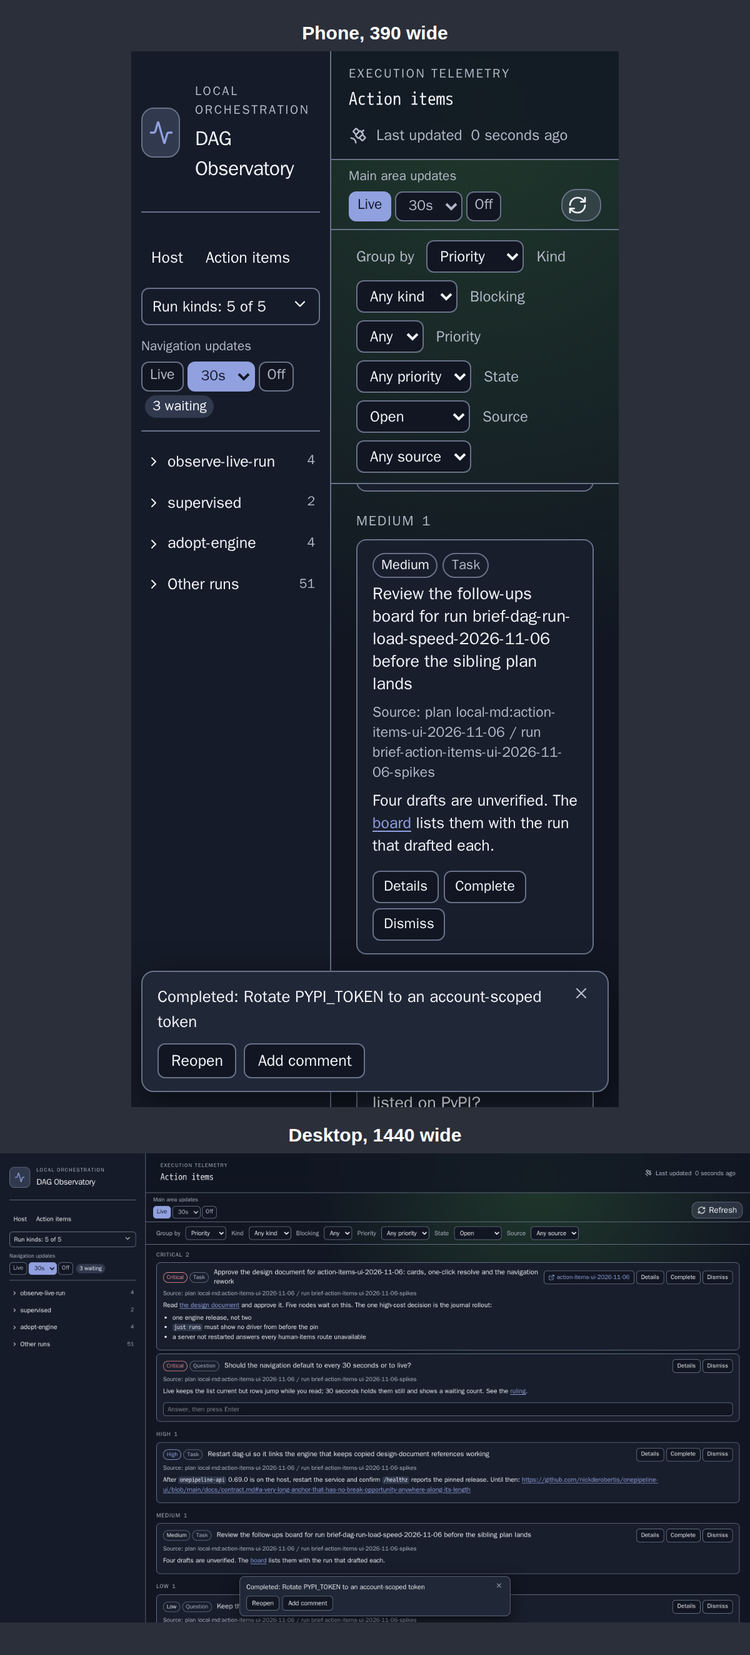
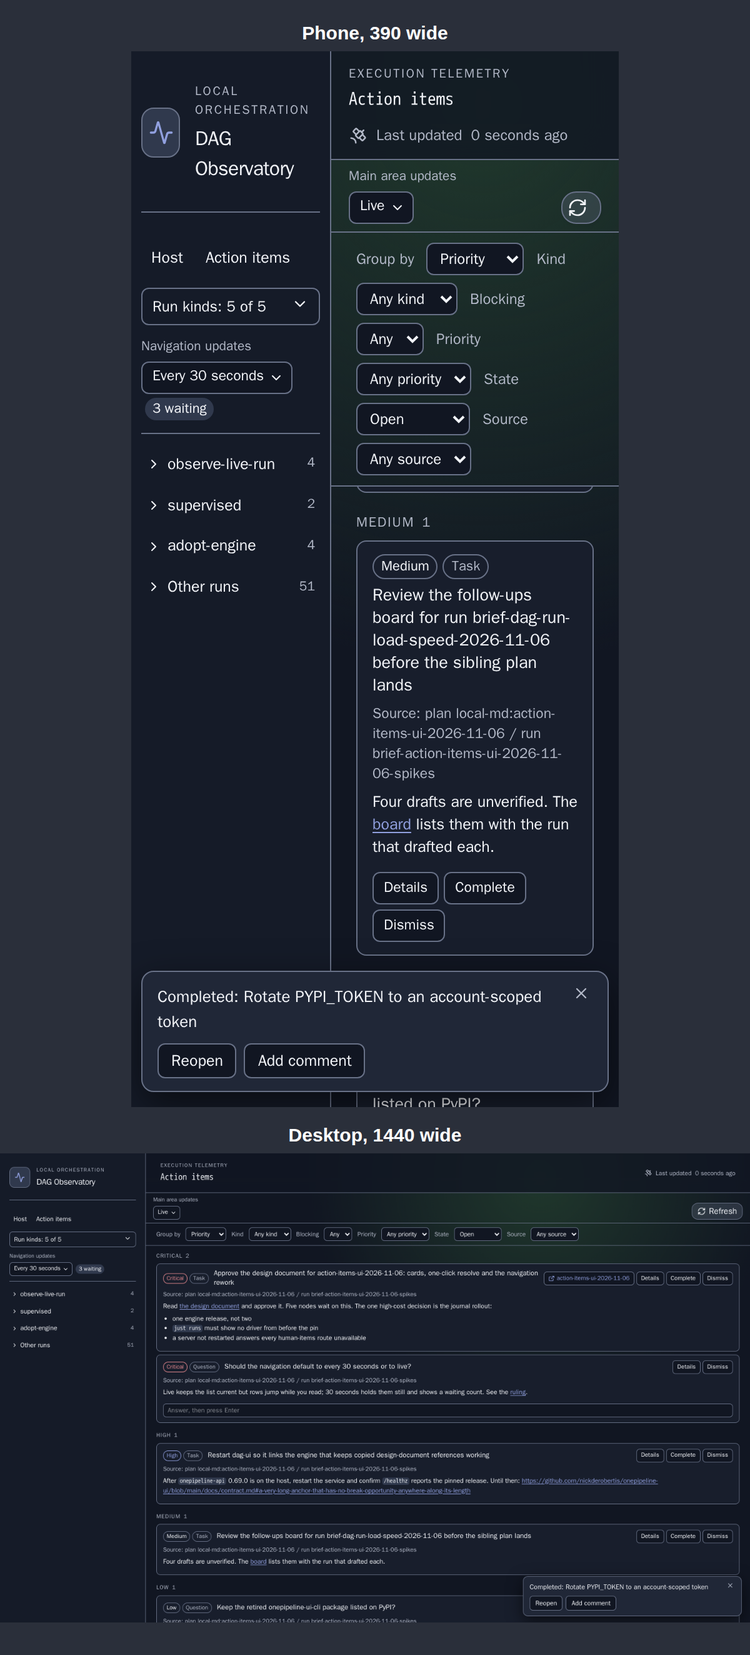
chore(spike): refresh the visual spike's report snapshot after the user's review

diff --git a/docs/spikes/action-items-ui-2026-11-06-spike-visual/report.md b/docs/spikes/action-items-ui-2026-11-06-spike-visual/report.md
@@ -2,11 +2,7 @@
 title: 'Spike spike-visual report: action items and navigation mock'
 project: action-items-ui-2026-11-06
 metadata:
-  onetaskgraph.template:
-    template: onepipeline:spike-report
-    digest: sha256:f9de4090ff78d96a56b1f1d831f2d5d77c9c15e335379fefcb78a96b03caa354
-    body_digest: sha256:142278aedd45d64e69173796d2f77d4170bffa1c2865af7c15eb27e6d08a6548
-    answers_digest: sha256:7c4c5c1d0a08d2e0bf624b81a3762dcd013b8bacbc1d031bdefd000ffd317e1b
+  "onetaskgraph.template": {"template":"onepipeline:spike-report","digest":"sha256:f9de4090ff78d96a56b1f1d831f2d5d77c9c15e335379fefcb78a96b03caa354","body_digest":"sha256:5138f1011ad198b8b79d9ad11e03f2011f6168b8bcb622e7e0a26f3c7cefae9f","answers_digest":"sha256:82bf78f093c232a17baf2375a6bde48b8fc0d0d54123b414d265fcd93afcc5d4"}
 ---
 # Spike `spike-visual`
 
@@ -21,13 +17,13 @@ metadata:
 
 A throwaway mock inside the real `apps/dag-ui`, driven through the repository's capture path (`just dag-ui-screens`) in its pinned browser container. Each image stacks the phone shot (390 wide) over the desktop shot (1440 wide), because a report entry names one image.
 
-**What is mocked.** The Action items list is six invented items served by a browser-side stub, on both the base page and the mock. Complete and Dismiss write nothing: the card leaves locally and a toast appears, with no timer. The failed write is hard-coded to one item, and its refusal text is written to resemble the engine's. The waiting counts are hard-coded and nothing buffers events. Grouping, remembering a choice and animated reordering are not exercised. Markdown is `react-markdown` standing in for `@onetaskgraph/ui`.
+**What is mocked.** The Action items list is six invented items served by a browser-side stub, on both the base page and the mock. Complete and Dismiss write nothing: the card leaves locally and a toast appears, with no timer. The failed write is hard-coded to one item, and its refusal text is written to resemble the engine's. The waiting counts are hard-coded and nothing buffers events. Each update setting's dropdown is a disclosure rather than a native select, because a native select's open list cannot appear in a screenshot; the build can use either. Grouping, remembering a choice and animated reordering are not exercised. Markdown is `react-markdown` standing in for `@onetaskgraph/ui`.
 
 **The befores.** Changes 6 and 7 use the deployed gallery's baseline images, `11-project-list` and `01-run-list-overall`. Each run of the script requires the digests in the deployed `captures.json`, the digests in `shots/baseline/x86_64.json` and the downloaded image's own SHA-256 to agree at both widths, and they did for all of these. On a mismatch the script renders that before on the unchanged base, source and fixture both; that fallback was not needed here. On the base these two surfaces render the same picture, so changes 6 and 7 show the same before. Changes 1 and 8 have no gallery surface, so they were captured with `apps/dag-ui/src` restored from base commit 7acfdc8.
 
 **The fixture.** The mock's fixture gains kinds on six runs and a long markdown task on `dashboard`. The task appears in both pictures of change 8. The kinds appear only in the afters of changes 6 and 7, because the baseline's fixture has none.
 
-**Checks.** This spike owes none, and nothing here lands. No lint and none of the repository's test suites ran, and the mock's new surfaces are not expected to pass those tests. These did run: `npx tsc -p apps/dag-ui/tsconfig.json --noEmit` twice while building the mock's first commit, the first run reporting one error in `HumanItemsPage.tsx`, fixed, and the second none, and not again after the later commits; `just spike-visual-screens`, whose Playwright specs only take pictures, and whose last run, on the tree committed as 0eef39e, exited 0; `playwright test --list`, showing the fallback's two surfaces resolve at both widths without running them; `cmp` of the stored images against the capture's files, before this wording changed; and `onepipeline template check spike-report --item` on this report after each of its last two replacements, reporting ok.
+**Checks.** This spike owes none, and nothing here lands. No lint and none of the repository's test suites ran, and the mock's new surfaces are not expected to pass those tests. These did run: `npx tsc -p apps/dag-ui/tsconfig.json --noEmit` twice while building the mock's first commit, the first run reporting one error in `HumanItemsPage.tsx`, fixed, and the second none, and not again after the later commits; `just spike-visual-screens`, whose Playwright specs only take pictures: its run on 9a65520 exited 1 because `aria-disabled` on the greyed Reopen's wrapper also disabled the question mark inside it, which was fixed, and its last run, on the tree committed as d30edb7, exited 0; `playwright test --list`, showing the fallback's two surfaces resolve at both widths without running them; `cmp` of the images against the last capture's files: all four befores byte-identical to the images stored before that run, and the eight afters changed; and `onepipeline template check spike-report --item` on this report after each of its last three replacements, reporting ok.
 
 
 ## Candidate budgets
@@ -41,13 +37,15 @@ This spike measured no candidate budget itself.
 - **The run's counts have no home in the one-line row.** The mock moves `active · 1 running · 3 done` into a hover title, which a phone cannot reach. The navigation task does not say whether the counts survive, so the plan should decide; the state dot alone says much less.
 - **The pinned controls leave little room for the list on a phone.** The title, update setting and five filters end about 345 px down, and with a toast showing only about 390 px of list remains (shots 2 to 4). The base already stacks the filters this way, and the update setting adds a row. Recommend folding the filters behind one disclosure at phone width, which no task states yet.
 - **On a phone the toast can cover the card it is about.** In the failed write shot it hides the card's own reason line and actions. The failure journey should bring the card into view above the toast, or the reason should appear in only one of the two places.
+- **On a wide screen the toast can cover the actions of a card under it.** Anchored bottom right, it sits over the right end of the list, where a card's Details, Complete and Dismiss are: in the Dismiss and Complete shots it hides the lowest visible card's actions. Moving it does not remove the overlap, so the build should keep room below the list or accept it for the toast's 15 seconds.
 - **The update settings need a stated place.** The navigation task does not say where the controls go. The mock puts one in the navigation and adds a strip under the top bar for the other, which costs a row on every view: about 57 px on a phone, more when the waiting count wraps. The strip does solve an existing problem: at 390 the base run view has Refresh pushed off the top bar's right edge, so it is not visible in the before. On desktop the strip could merge into the top bar.
-- **Phone touch targets are small.** In the mock the update buttons are 24 px tall and card actions 26 px. The goals require usability on a phone, so the build should set a minimum size.
+- **The navigation's waiting count takes its own line on a phone.** `Every 30 seconds` nearly fills the 160 px column, so the count wraps under the dropdown and adds a row to the navigation. A drawer or a shorter label such as `30s` would resolve it.
+- **Phone touch targets are small.** In the mock the update dropdowns and card actions are 26 px tall. The greyed Reopen's question mark is drawn at 11 px as asked, with an invisible hit area of about 33 px around it that overlaps the left edge of Add comment. The goals require usability on a phone, so the build should set a minimum size and a gap that keeps the two targets apart.
 - **The six-card target in the page's stylesheet does not hold under realistic content.** `styles.css` cites `docs/human-items.md` for six complete cards at 1440×900 with 80 to 160 character bodies. The mock shows four complete cards and part of a fifth, even with badges, title and actions on one row, because bodies with lists are taller. The target should be restated or the desktop clamp tightened.
 - **The Priority badge repeats its group heading.** Under a heading reading Critical, every card also carries a Critical badge. Recommend omitting the badge for whichever field the list is grouped by.
 - **Bold did not render in these captures.** `**text**` and headings show at regular weight even with an explicit `font-weight: 700`, so the mock separates headings by size alone. The cause was not investigated. It may be the capture's font and not a phone or desktop browser, but the build should check it, because bold is part of rendered markdown.
 - **`remark-gfm` is not in this repository's `bun.lock`.** `react-markdown` alone gives no GFM, so bare URLs do not link and tables do not render; the mock's long URLs had to use `<...>`. `TaskMarkdown` promises GFM, so `@onetaskgraph/ui` has to bring it.
-- **A popup kind dropdown would be clipped in the navigation.** `.run-nav` sets `overflow: hidden`, and at phone width the column is 160 px. The mock opens the list in flow, pushing the rows down; the build should either keep that or render the menu in a portal.
+- **A popup dropdown would be clipped in the navigation.** `.run-nav` sets `overflow: hidden`, and at phone width the column is 160 px. The mock opens the kind list and the navigation's update list in flow, pushing the rows down; the build should either keep that or render the menu in a portal.
 - **On a phone the card clamp can hide what matters.** Four lines of body cut off the bullet list on the first card, so its three rollout points are reachable only through Details. Desktop shows them. This may be acceptable, but it is a real loss for an approval read on a phone.
 
 ## Visual changes
@@ -66,25 +64,25 @@ Cards gain group headings with counts, rendered markdown with formatted links, a
 
 ### The toast after Dismiss
 
-Dismiss acts at once with no dialog. The card leaves and a toast offers Restore and Add reason.
+Dismiss acts at once with no dialog. The card leaves and a toast offers Restore and Add reason. On a wide screen it sits at the bottom right; on a phone it stays across the bottom.
 
 ![The toast after Dismiss](./a2-dismiss-toast.png)
 
 ### The toast after Complete
 
-Complete acts at once. The card leaves and a toast offers Reopen and Add comment.
+Complete acts at once. The card leaves and a toast offers Reopen and Add comment. On a wide screen it sits at the bottom right; on a phone it stays across the bottom.
 
 ![The toast after Complete](./a3-complete-toast.png)
 
 ### Reopen greyed, with its reason open
 
-Where an item cannot be reopened, Reopen is greyed with a question mark beside it. Pressing the question mark opens the reason, which also works on a phone; on desktop hovering shows it too. Shown after completing an item whose script declares no undo.
+Where an item cannot be reopened, Reopen is greyed with a small question mark on its text, as a superscript. Pressing the question mark opens the reason, which also works on a phone; on desktop hovering shows it too. Shown after completing an item whose script declares no undo.
 
 ![Reopen greyed, with its reason open](./a4-reopen-greyed.png)
 
 ### A failed write
 
-The card stays in its place with the reason on it, and the toast names what did not happen and why. On a phone the toast covers the bottom of the card, as the findings say. The refusal text is mock wording.
+The card stays in its place with the reason on it, and the toast names what did not happen and why. On a phone the toast covers the bottom of the card, as the findings say; on a wide screen it sits at the bottom right, clear of this card. The refusal text is mock wording.
 
 ![A failed write](./a5-failed-write.png)
 
@@ -102,7 +100,7 @@ Projects become compact rows with counts, collapsed except the selected run's pr
 
 ### Two update settings
 
-The navigation and the main area each offer Live, an interval and Off, with a count of waiting changes. Shown at the defaults for the navigation (every 30 seconds) and with the main area switched to Off to show its count; the main area defaults to Live. Refresh sits beside the main area's setting, where a phone can reach it. The before is the deployed baseline, whose fixture has no kind tags.
+The navigation and the main area each have one dropdown holding Live, Every 10 seconds, Every 30 seconds, Every minute, Every 5 minutes and Off, with a count of waiting changes beside it. Both are shown open so the picture shows what each holds; a real one closes when you look away. The navigation is at its default (every 30 seconds) and the main area is switched to Off to show its count; the main area defaults to Live, as the other shots show. Refresh sits beside the main area's setting, where a phone can reach it. The before is the deployed baseline, whose fixture has no kind tags.
 
 **Before**
 
@@ -134,26 +132,28 @@ findings:
 - '**The run''s counts have no home in the one-line row.** The mock moves `active · 1 running · 3 done` into a hover title, which a phone cannot reach. The navigation task does not say whether the counts survive, so the plan should decide; the state dot alone says much less.'
 - '**The pinned controls leave little room for the list on a phone.** The title, update setting and five filters end about 345 px down, and with a toast showing only about 390 px of list remains (shots 2 to 4). The base already stacks the filters this way, and the update setting adds a row. Recommend folding the filters behind one disclosure at phone width, which no task states yet.'
 - '**On a phone the toast can cover the card it is about.** In the failed write shot it hides the card''s own reason line and actions. The failure journey should bring the card into view above the toast, or the reason should appear in only one of the two places.'
+- '**On a wide screen the toast can cover the actions of a card under it.** Anchored bottom right, it sits over the right end of the list, where a card''s Details, Complete and Dismiss are: in the Dismiss and Complete shots it hides the lowest visible card''s actions. Moving it does not remove the overlap, so the build should keep room below the list or accept it for the toast''s 15 seconds.'
 - '**The update settings need a stated place.** The navigation task does not say where the controls go. The mock puts one in the navigation and adds a strip under the top bar for the other, which costs a row on every view: about 57 px on a phone, more when the waiting count wraps. The strip does solve an existing problem: at 390 the base run view has Refresh pushed off the top bar''s right edge, so it is not visible in the before. On desktop the strip could merge into the top bar.'
-- '**Phone touch targets are small.** In the mock the update buttons are 24 px tall and card actions 26 px. The goals require usability on a phone, so the build should set a minimum size.'
+- '**The navigation''s waiting count takes its own line on a phone.** `Every 30 seconds` nearly fills the 160 px column, so the count wraps under the dropdown and adds a row to the navigation. A drawer or a shorter label such as `30s` would resolve it.'
+- '**Phone touch targets are small.** In the mock the update dropdowns and card actions are 26 px tall. The greyed Reopen''s question mark is drawn at 11 px as asked, with an invisible hit area of about 33 px around it that overlaps the left edge of Add comment. The goals require usability on a phone, so the build should set a minimum size and a gap that keeps the two targets apart.'
 - '**The six-card target in the page''s stylesheet does not hold under realistic content.** `styles.css` cites `docs/human-items.md` for six complete cards at 1440×900 with 80 to 160 character bodies. The mock shows four complete cards and part of a fifth, even with badges, title and actions on one row, because bodies with lists are taller. The target should be restated or the desktop clamp tightened.'
 - '**The Priority badge repeats its group heading.** Under a heading reading Critical, every card also carries a Critical badge. Recommend omitting the badge for whichever field the list is grouped by.'
 - '**Bold did not render in these captures.** `**text**` and headings show at regular weight even with an explicit `font-weight: 700`, so the mock separates headings by size alone. The cause was not investigated. It may be the capture''s font and not a phone or desktop browser, but the build should check it, because bold is part of rendered markdown.'
 - '**`remark-gfm` is not in this repository''s `bun.lock`.** `react-markdown` alone gives no GFM, so bare URLs do not link and tables do not render; the mock''s long URLs had to use `<...>`. `TaskMarkdown` promises GFM, so `@onetaskgraph/ui` has to bring it.'
-- '**A popup kind dropdown would be clipped in the navigation.** `.run-nav` sets `overflow: hidden`, and at phone width the column is 160 px. The mock opens the list in flow, pushing the rows down; the build should either keep that or render the menu in a portal.'
+- '**A popup dropdown would be clipped in the navigation.** `.run-nav` sets `overflow: hidden`, and at phone width the column is 160 px. The mock opens the kind list and the navigation''s update list in flow, pushing the rows down; the build should either keep that or render the menu in a portal.'
 - '**On a phone the card clamp can hide what matters.** Four lines of body cut off the bullet list on the first card, so its three rollout points are reachable only through Details. Desktop shows them. This may be acceptable, but it is a real loss for an approval read on a phone.'
 harness: |
   `just spike-visual-screens` on that branch re-captures every picture, a few minutes once built, and needs Docker. It writes the shots to `shots/local/spike-visual/{before,after}` and the images this report names to `shots/local/spike-visual/report`. `scripts/spike-visual-capture.sh` is the driver and `apps/dag-ui-e2e/gallery.screens.spec.ts` holds the `SPIKE-before` and `SPIKE-after` surfaces.
 method: |
   A throwaway mock inside the real `apps/dag-ui`, driven through the repository's capture path (`just dag-ui-screens`) in its pinned browser container. Each image stacks the phone shot (390 wide) over the desktop shot (1440 wide), because a report entry names one image.
 
-  **What is mocked.** The Action items list is six invented items served by a browser-side stub, on both the base page and the mock. Complete and Dismiss write nothing: the card leaves locally and a toast appears, with no timer. The failed write is hard-coded to one item, and its refusal text is written to resemble the engine's. The waiting counts are hard-coded and nothing buffers events. Grouping, remembering a choice and animated reordering are not exercised. Markdown is `react-markdown` standing in for `@onetaskgraph/ui`.
+  **What is mocked.** The Action items list is six invented items served by a browser-side stub, on both the base page and the mock. Complete and Dismiss write nothing: the card leaves locally and a toast appears, with no timer. The failed write is hard-coded to one item, and its refusal text is written to resemble the engine's. The waiting counts are hard-coded and nothing buffers events. Each update setting's dropdown is a disclosure rather than a native select, because a native select's open list cannot appear in a screenshot; the build can use either. Grouping, remembering a choice and animated reordering are not exercised. Markdown is `react-markdown` standing in for `@onetaskgraph/ui`.
 
   **The befores.** Changes 6 and 7 use the deployed gallery's baseline images, `11-project-list` and `01-run-list-overall`. Each run of the script requires the digests in the deployed `captures.json`, the digests in `shots/baseline/x86_64.json` and the downloaded image's own SHA-256 to agree at both widths, and they did for all of these. On a mismatch the script renders that before on the unchanged base, source and fixture both; that fallback was not needed here. On the base these two surfaces render the same picture, so changes 6 and 7 show the same before. Changes 1 and 8 have no gallery surface, so they were captured with `apps/dag-ui/src` restored from base commit 7acfdc8.
 
   **The fixture.** The mock's fixture gains kinds on six runs and a long markdown task on `dashboard`. The task appears in both pictures of change 8. The kinds appear only in the afters of changes 6 and 7, because the baseline's fixture has none.
 
-  **Checks.** This spike owes none, and nothing here lands. No lint and none of the repository's test suites ran, and the mock's new surfaces are not expected to pass those tests. These did run: `npx tsc -p apps/dag-ui/tsconfig.json --noEmit` twice while building the mock's first commit, the first run reporting one error in `HumanItemsPage.tsx`, fixed, and the second none, and not again after the later commits; `just spike-visual-screens`, whose Playwright specs only take pictures, and whose last run, on the tree committed as 0eef39e, exited 0; `playwright test --list`, showing the fallback's two surfaces resolve at both widths without running them; `cmp` of the stored images against the capture's files, before this wording changed; and `onepipeline template check spike-report --item` on this report after each of its last two replacements, reporting ok.
+  **Checks.** This spike owes none, and nothing here lands. No lint and none of the repository's test suites ran, and the mock's new surfaces are not expected to pass those tests. These did run: `npx tsc -p apps/dag-ui/tsconfig.json --noEmit` twice while building the mock's first commit, the first run reporting one error in `HumanItemsPage.tsx`, fixed, and the second none, and not again after the later commits; `just spike-visual-screens`, whose Playwright specs only take pictures: its run on 9a65520 exited 1 because `aria-disabled` on the greyed Reopen's wrapper also disabled the question mark inside it, which was fixed, and its last run, on the tree committed as d30edb7, exited 0; `playwright test --list`, showing the fallback's two surfaces resolve at both widths without running them; `cmp` of the images against the last capture's files: all four befores byte-identical to the images stored before that run, and the eight afters changed; and `onepipeline template check spike-report --item` on this report after each of its last three replacements, reporting ok.
 spike: spike-visual
 visual_changes:
 - name: Action items cards, grouped by Priority
@@ -161,23 +161,23 @@ visual_changes:
   before: b1-cards.png
   after: a1-cards.png
 - name: The toast after Dismiss
-  description: Dismiss acts at once with no dialog. The card leaves and a toast offers Restore and Add reason.
+  description: Dismiss acts at once with no dialog. The card leaves and a toast offers Restore and Add reason. On a wide screen it sits at the bottom right; on a phone it stays across the bottom.
   after: a2-dismiss-toast.png
 - name: The toast after Complete
-  description: Complete acts at once. The card leaves and a toast offers Reopen and Add comment.
+  description: Complete acts at once. The card leaves and a toast offers Reopen and Add comment. On a wide screen it sits at the bottom right; on a phone it stays across the bottom.
   after: a3-complete-toast.png
 - name: Reopen greyed, with its reason open
-  description: Where an item cannot be reopened, Reopen is greyed with a question mark beside it. Pressing the question mark opens the reason, which also works on a phone; on desktop hovering shows it too. Shown after completing an item whose script declares no undo.
+  description: Where an item cannot be reopened, Reopen is greyed with a small question mark on its text, as a superscript. Pressing the question mark opens the reason, which also works on a phone; on desktop hovering shows it too. Shown after completing an item whose script declares no undo.
   after: a4-reopen-greyed.png
 - name: A failed write
-  description: The card stays in its place with the reason on it, and the toast names what did not happen and why. On a phone the toast covers the bottom of the card, as the findings say. The refusal text is mock wording.
+  description: The card stays in its place with the reason on it, and the toast names what did not happen and why. On a phone the toast covers the bottom of the card, as the findings say; on a wide screen it sits at the bottom right, clear of this card. The refusal text is mock wording.
   after: a5-failed-write.png
 - name: Left navigation
   description: Projects become compact rows with counts, collapsed except the selected run's project. Each run is a row of state dot, name and kind tag, and the Open links are gone. One Run kinds dropdown, shown open here, replaces the checkboxes. On a phone the tag takes a second line. The before is the deployed baseline, whose fixture has no run kinds, so it does not show the checkboxes being replaced; on a host with kinds they sit above the project list.
   before: b6-nav.png
   after: a6-nav.png
 - name: Two update settings
-  description: The navigation and the main area each offer Live, an interval and Off, with a count of waiting changes. Shown at the defaults for the navigation (every 30 seconds) and with the main area switched to Off to show its count; the main area defaults to Live. Refresh sits beside the main area's setting, where a phone can reach it. The before is the deployed baseline, whose fixture has no kind tags.
+  description: The navigation and the main area each have one dropdown holding Live, Every 10 seconds, Every 30 seconds, Every minute, Every 5 minutes and Off, with a count of waiting changes beside it. Both are shown open so the picture shows what each holds; a real one closes when you look away. The navigation is at its default (every 30 seconds) and the main area is switched to Off to show its count; the main area defaults to Live, as the other shots show. Refresh sits beside the main area's setting, where a phone can reach it. The before is the deployed baseline, whose fixture has no kind tags.
   before: b7-updates.png
   after: a7-updates.png
 - name: A node's task as rendered markdown
